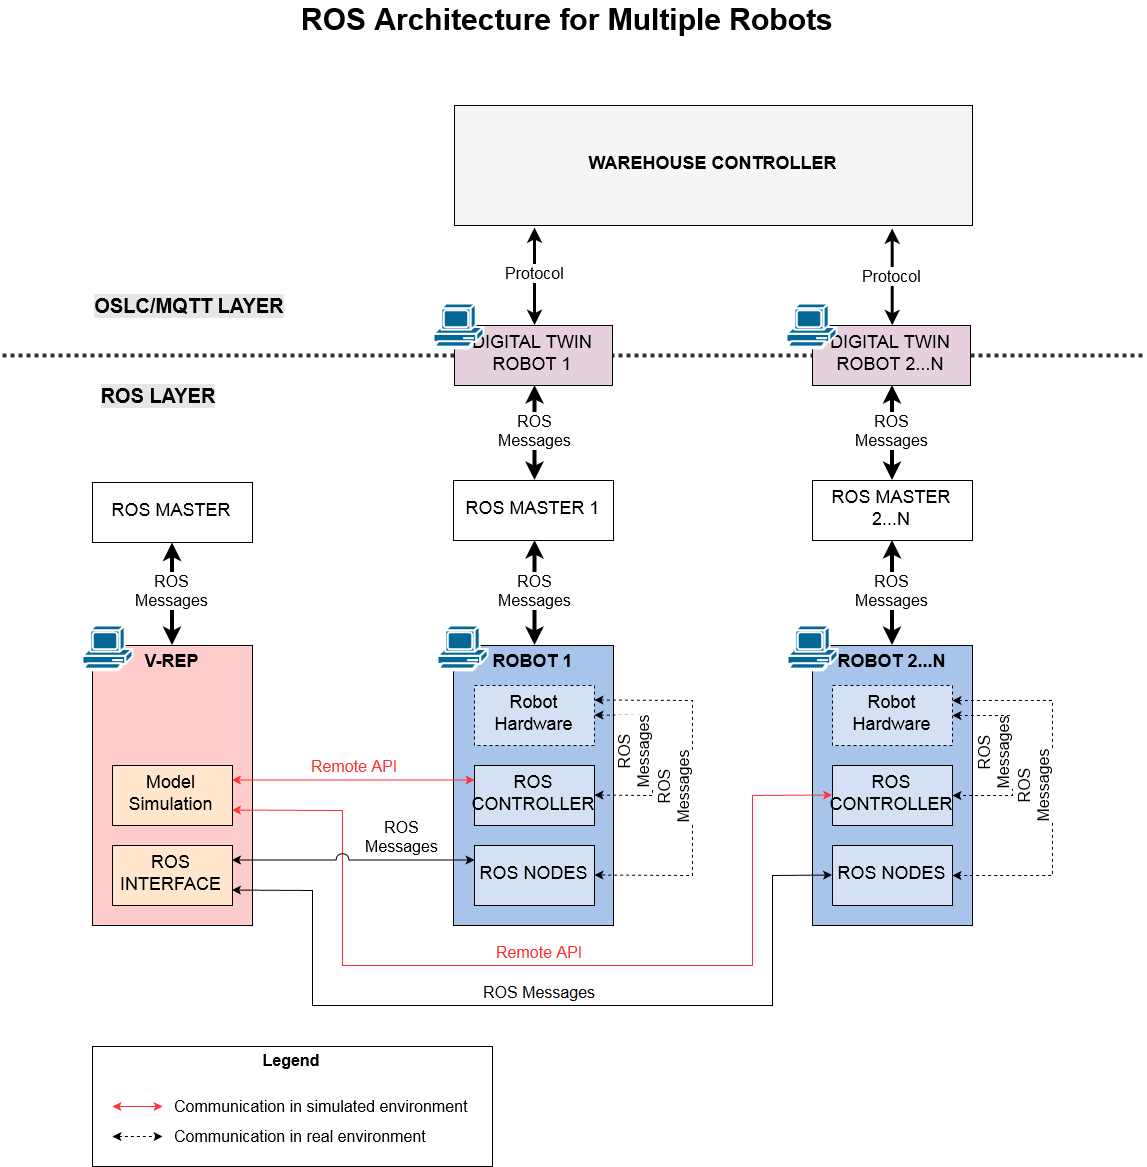
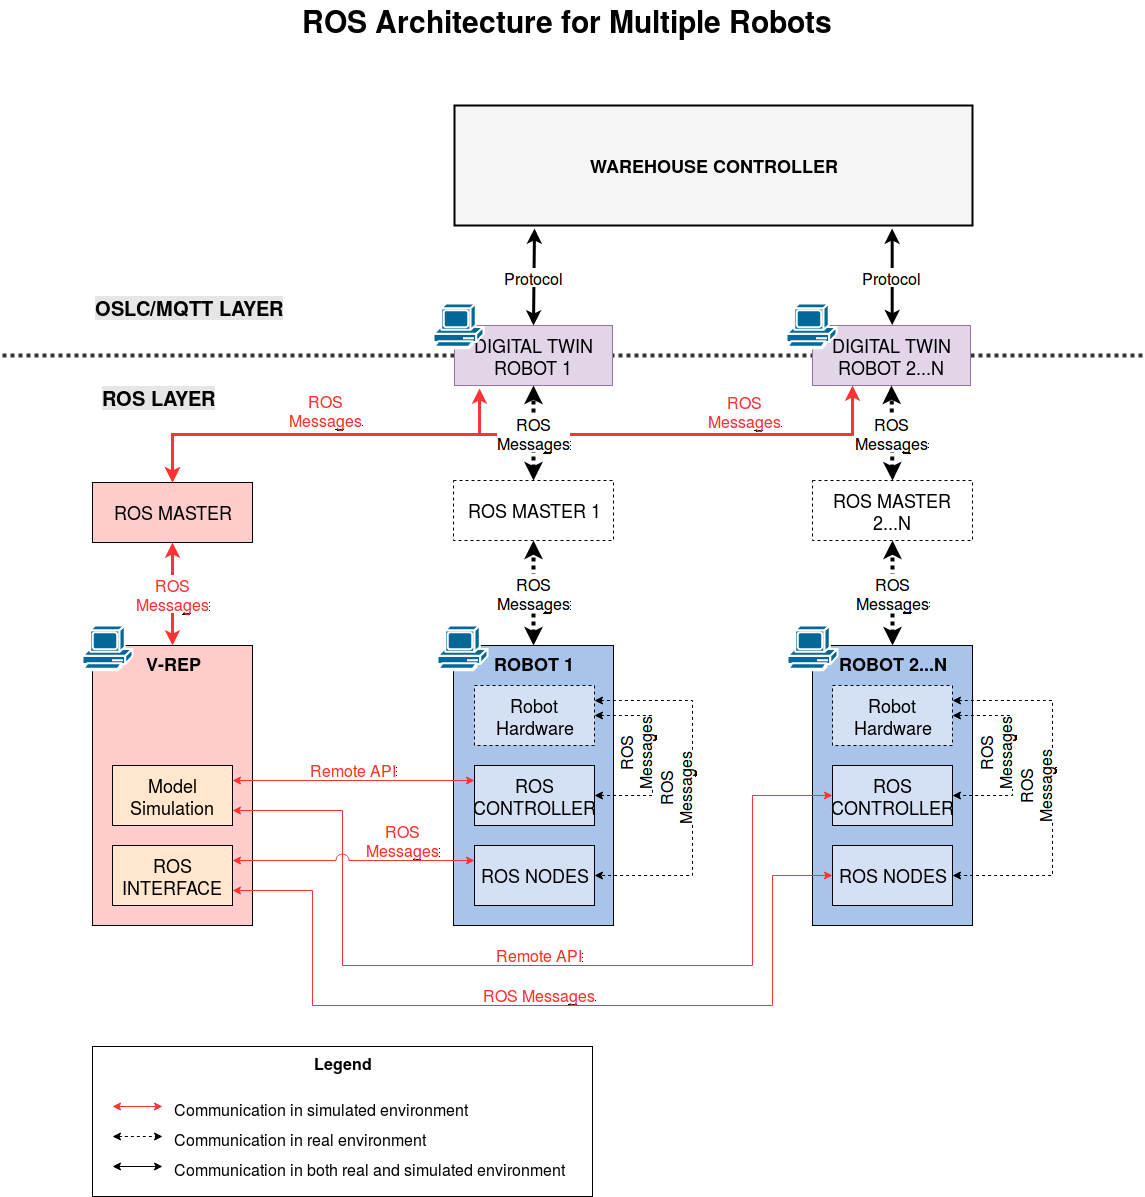
updated the architecture documentation

diff --git a/doc/architecture.md b/doc/architecture.md
@@ -12,8 +12,16 @@ The robot model is a Turtlebot2i which is equipped with a robotic arm and two ac
 
 The  presented architecture is formed by the following components that are necessary to run and monitor the robots inside the
 warehouse: V-REP, Robots and Digital Twin. These components are intended to run in different machines in a seamless way
-and in different networks. The following figure illustrates the components of the architecture and the communication
+and in different networks. 
+
+There are two scenarios in this architecture: 
+
+- **Simulated Scenario:** The robots and the warehouse are simulated by V-REP and all the information are gathered from the simulator. In this scenario a single ROS MASTER is used. ROS algorithms communicate with the V-REP through *ROS_INTERFACE* and *ROS API*.
+- **Real Scenario:** In this scenario, real robots are used and each robot has its own ROS MASTER. Each robot will be equipped with its own computer and running ROS on top of it. Each ROS MASTER can communicate with each other with using [ROS MultiMaster](http://wiki.ros.org/ROS/Tutorials/MultipleMachines). 
+
+The following figure illustrates the components of the architecture and the communication
 between them.
+
 
 ![alt text](http://url/to/img.png)
 
